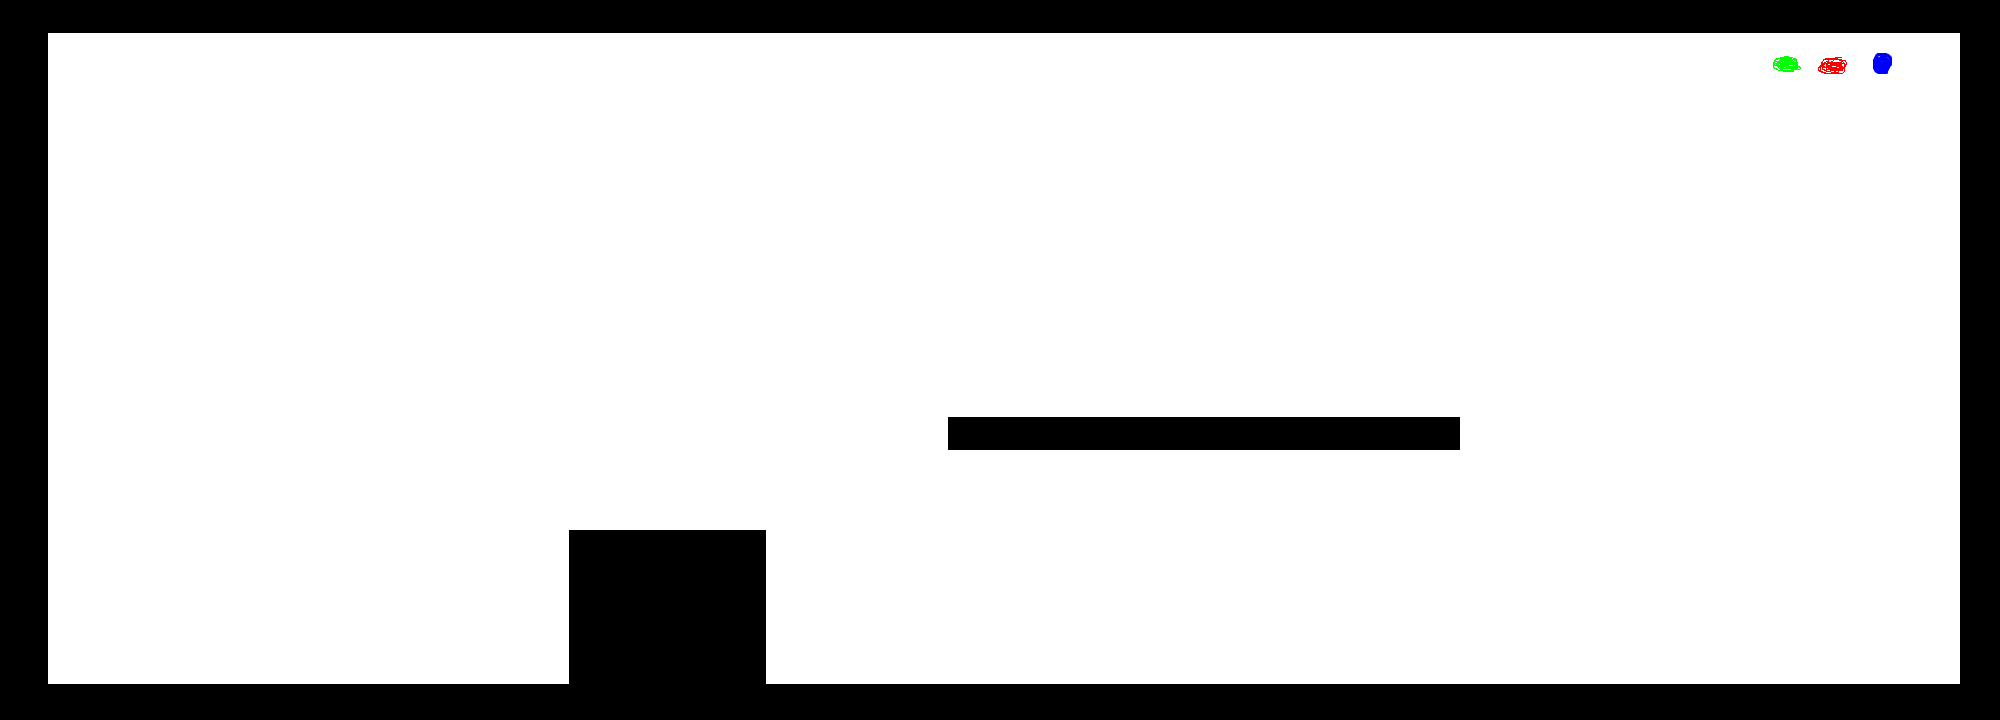
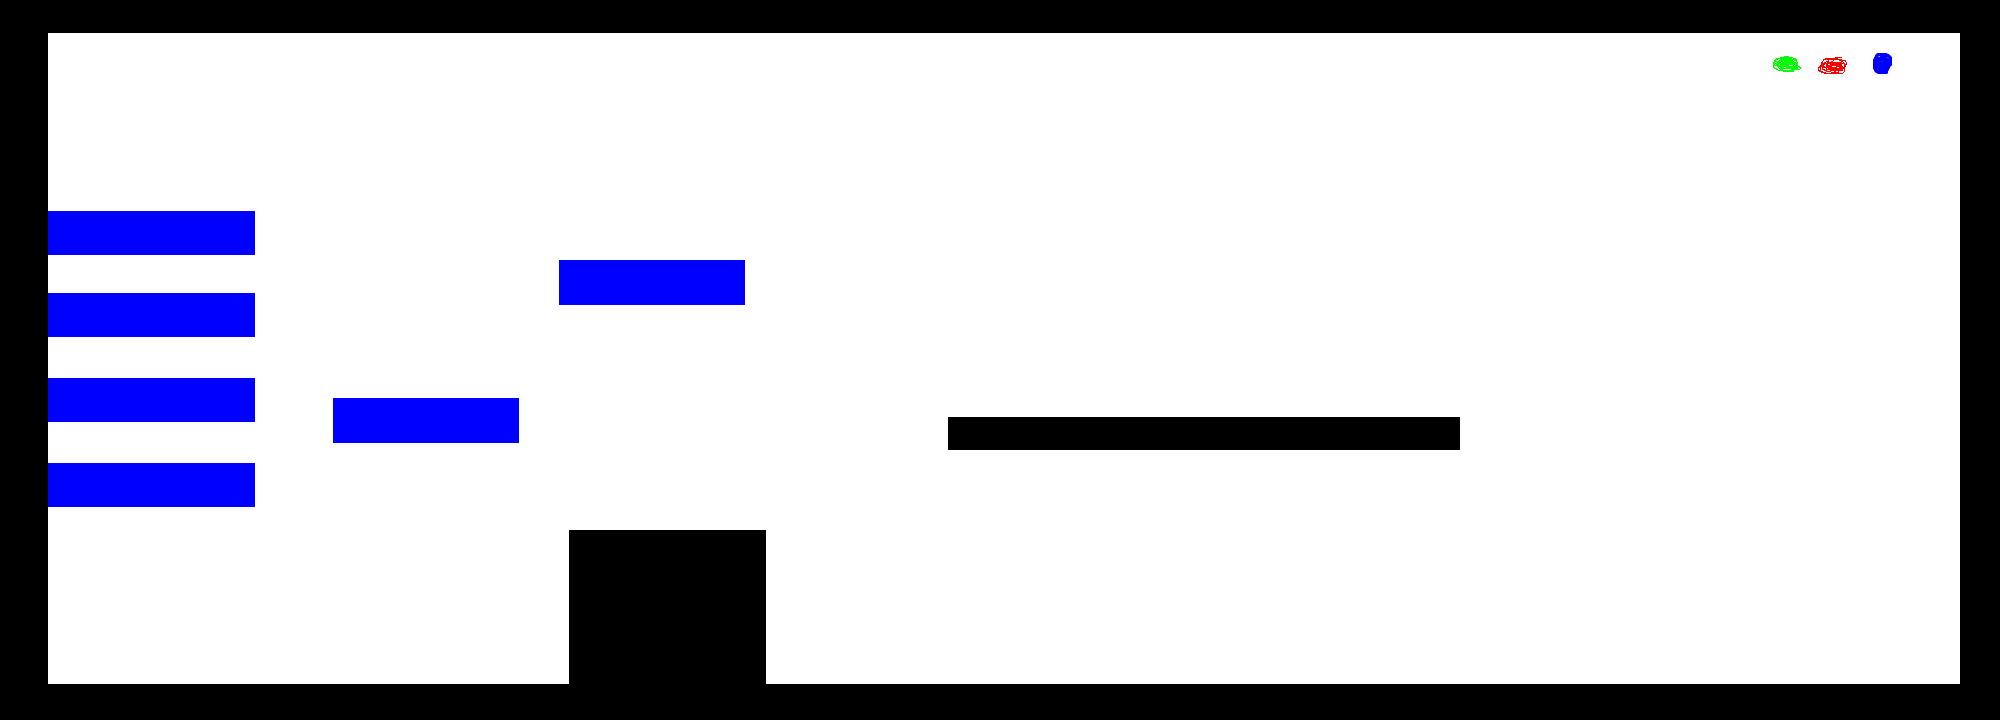
밑점프 기반

diff --git a/DirectX_UTG/GameEngineContents/Player.cpp b/DirectX_UTG/GameEngineContents/Player.cpp
@@ -77,11 +77,21 @@ void Player::Update(float _DeltaTime)
 	DirectCheck();
 	UpdateState(_DeltaTime);
 	ProjectileCreate(_DeltaTime);
-	PixelCheck(_DeltaTime);
 
-	if (true == GameEngineInput::IsDown("Dash"))
+	float4 PlayerPosCheck = GetTransform()->GetLocalPosition() + float4{0, -1};
+	GameEnginePixelColor BluePixelCheck = PixelCollisionCheck.PixelCheck(PlayerPosCheck);
+
+	if (true == IsBottomJump)
 	{
-		int a = 0;
+		BottomJumpStateCheck();
+	}
+	else if (false == PixelCollisionCheck.IsBlue(BluePixelCheck))
+	{
+		PixelCheck(_DeltaTime);
+	}
+	else
+	{
+		BottomJump(_DeltaTime);
 	}
 
 	if (true == IsDebugRender)
@@ -166,7 +176,6 @@ void Player::ProjectileCreate(float _DeltaTime)
 
 	// WeaponType = true : Peashooter
 	// WeaponType = false : Spread
-
 	if (0.15f <= ProjectileCreateTime && false == IsDash && GameEngineInput::IsPress("Attack"))
 	{
 		if (true == WeaponType)
@@ -779,6 +788,14 @@ void Player::IdleUpdate(float _DeltaTime)
 		return;
 	}
 
+	if (true == GameEngineInput::IsPress("MoveDown") && true == GameEngineInput::IsDown("Jump") && true == BottomJumpAble)
+	{
+		IsBottomJump = true;
+		IsFall = true;
+		ChangeState(PlayerState::Fall);
+		return;
+	}
+
 	if (true == GameEngineInput::IsDown("Jump"))
 	{
 		ChangeState(PlayerState::Jump);
@@ -993,6 +1010,20 @@ void Player::DuckReadyUpdate(float _DeltaTime)
 		ADValue = AttackDirection::Left_Front;
 	}
 
+	if (true == IsFall)
+	{
+		ChangeState(PlayerState::Fall);
+		return;
+	}
+
+	if (true == GameEngineInput::IsPress("MoveDown") && true == GameEngineInput::IsDown("Jump") && true == BottomJumpAble)
+	{
+		IsBottomJump = true;
+		IsFall = true;
+		ChangeState(PlayerState::Fall);
+		return;
+	}
+
 	if (true == GameEngineInput::IsDown("Jump"))
 	{
 		ChangeState(PlayerState::Jump);
@@ -1064,6 +1095,20 @@ void Player::DuckUpdate(float _DeltaTime)
 	else
 	{
 		ADValue = AttackDirection::Left_Front;
+	}
+
+	if (true == IsFall)
+	{
+		ChangeState(PlayerState::Fall);
+		return;
+	}
+
+	if (true == GameEngineInput::IsPress("MoveDown") && true == GameEngineInput::IsDown("Jump") && true == BottomJumpAble)
+	{
+		IsBottomJump = true;
+		IsFall = true;
+		ChangeState(PlayerState::Fall);
+		return;
 	}
 
 	if (true == GameEngineInput::IsDown("Jump"))
@@ -1469,6 +1514,20 @@ void Player::DuckAttackStart()
 }
 void Player::DuckAttackUpdate(float _DeltaTime)
 {
+	if (true == IsFall)
+	{
+		ChangeState(PlayerState::Fall);
+		return;
+	}
+
+	if (true == GameEngineInput::IsPress("MoveDown") && true == GameEngineInput::IsDown("Jump") && true == BottomJumpAble)
+	{
+		IsBottomJump = true;
+		IsFall = true;
+		ChangeState(PlayerState::Fall);
+		return;
+	}
+
 	if (true == GameEngineInput::IsDown("Jump"))
 	{
 		ChangeState(PlayerState::Jump);

diff --git a/DirectX_UTG/GameEngineContents/PlayerDataBase.h b/DirectX_UTG/GameEngineContents/PlayerDataBase.h
@@ -63,7 +63,11 @@ protected:
 	std::shared_ptr<class GameEngineSpriteRenderer> AnimationCreate_Field();
 	std::shared_ptr<class GameEngineSpriteRenderer> AnimationCreate_Overworld();
 	
+	void AirDashCheck(const GameEnginePixelColor& _LeftFallMapPixel, const GameEnginePixelColor& _RightFallMapPixel);
+	void WallCheck(const GameEnginePixelColor& _LeftWallMapPixel, const GameEnginePixelColor& _RightWallMapPixel, float _DeltaTime);
 	void PixelCheck(float _DeltaTime);
+	void BottomJump(float _DeltaTime);
+	void BottomJumpStateCheck();
 
 	float MoveSpeed = 400.0f;
 
@@ -108,7 +112,9 @@ private:
 	bool IsJump = false;
 	bool IsFall = false;
 	bool IsDash = false;
+	bool IsBottomJump = false;
 	bool AirDash = false;
+	bool BottomJumpAble = false;
 
 	// alt + shift + .
 	virtual void IdleStart() {}
@@ -118,38 +124,6 @@ private:
 	virtual void MoveStart() {}
 	virtual void MoveUpdate(float _DeltaTime) {}
 	virtual void MoveEnd() {}
-
-	//virtual void DashStart() {}
-	//virtual void DashUpdate() {}
-	//virtual void DashEnd() {}
-
-	//virtual void DuckStart() {}
-	//virtual void DuckUpdate() {}
-	//virtual void DuckEnd() {}
-
-	//virtual void JumpStart() {}
-	//virtual void JumpUpdate() {}
-	//virtual void JumpEnd() {}
-
-	//virtual void SlapStart() {}
-	//virtual void SlapUpdate() {}
-	//virtual void SlapEnd() {}
-
-	//virtual void AttackStart() {}
-	//virtual void AttackUpdate() {}
-	//virtual void AttackEnd() {}
-
-	//virtual void RunAttackStart() {}
-	//virtual void RunAttackUpdate() {}
-	//virtual void RunAttackEnd() {}
-
-	//virtual void EXAttackStart() {}
-	//virtual void EXAttackUpdate() {}
-	//virtual void EXAttackEnd() {}
-
-	//virtual void HoldingStart() {}
-	//virtual void HoldingUpdate() {}
-	//virtual void HoldingEnd() {}
 
 };
 

diff --git a/DirectX_UTG/GameEngineContents/PixelCollision.cpp b/DirectX_UTG/GameEngineContents/PixelCollision.cpp
@@ -16,9 +16,11 @@ void PixelCollision::SetColMap(const std::shared_ptr<GameEngineTexture>& _ColMap
 {
 	GameEnginePixelColor DC(static_cast<char>(123), static_cast<char>(123), static_cast<char>(123), static_cast<char>(123));
 	GameEnginePixelColor BC(static_cast<char>(0), static_cast<char>(0), static_cast<char>(0), static_cast<char>(255));
+	GameEnginePixelColor BLC(static_cast<char>(0), static_cast<char>(0), static_cast<char>(255), static_cast<char>(255));
 	
 	DebugColor = DC;
 	BlackColor = BC;
+	BlueColor = BLC;
 
 	ColMap = _ColMap;
 	Pivot = _Pivot;

diff --git a/DirectX_UTG/GameEngineContents/CupheadCore.cpp b/DirectX_UTG/GameEngineContents/CupheadCore.cpp
@@ -33,12 +33,12 @@ void CupheadCore::GameStart()
 
 	ContentsResourcesCreate();
 
-	//GameEngineCore::CreateLevel<TestLevel>();
+	GameEngineCore::CreateLevel<TestLevel>();
 	//GameEngineCore::CreateLevel<First_OpeningLevel>();
-	GameEngineCore::CreateLevel<TutorialLevel>();
+	//GameEngineCore::CreateLevel<TutorialLevel>();
 	//GameEngineCore::CreateLevel<OverworldLevel>();
 
-	GameEngineCore::ChangeLevel("TutorialLevel");
+	GameEngineCore::ChangeLevel("TestLevel");
 }
 
 void CupheadCore::GameEnd()

diff --git a/DirectX_UTG/GameEngineContents/PixelCollision.h b/DirectX_UTG/GameEngineContents/PixelCollision.h
@@ -32,6 +32,11 @@ public:
 		return BlackColor == _Pixel;
 	}
 
+	bool IsBlue(GameEnginePixelColor _Pixel)
+	{
+		return BlueColor == _Pixel;
+	}
+
 	float GetColMapHeight_Half()
 	{
 		return Height_Half;
@@ -48,6 +53,7 @@ private:
 	Coordinate Pivot = Coordinate::WindowOrigin;
 	GameEnginePixelColor DebugColor;
 	GameEnginePixelColor BlackColor;
+	GameEnginePixelColor BlueColor;
 	std::shared_ptr<class GameEngineTexture> ColMap = nullptr;
 	int Height = 0;
 	int Width = 0;

diff --git a/DirectX_UTG/GameEngineContents/TestLevel.h b/DirectX_UTG/GameEngineContents/TestLevel.h
@@ -30,4 +30,9 @@ private:
 
 	std::shared_ptr<class Player> PlayerObject = nullptr;
 	std::shared_ptr<class TransformGUI> GUI = nullptr;
+
+	void PlayerDebugRenderOn();
+	void PlayerDebugRenderOff();
+	void TutorialColMapOn();
+	void TutorialColMapOff();
 };
